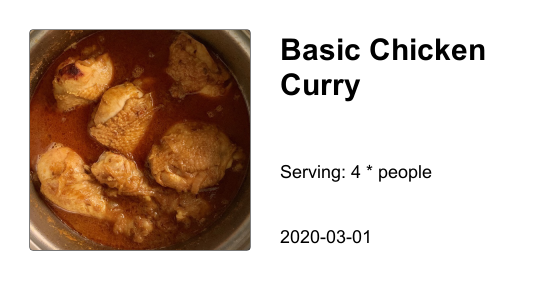
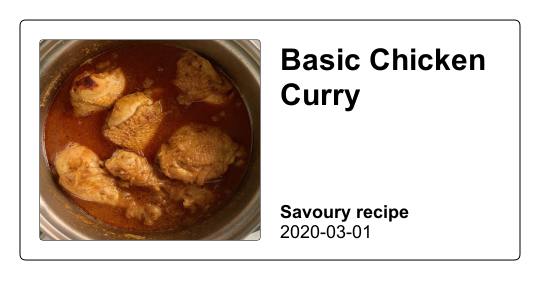
update style and preview image

Changed region(s): [[0.0296, 0.0569, 0.9778, 0.9395]]

diff --git a/pages/recipe/[slug].js b/pages/recipe/[slug].js
@@ -39,7 +39,7 @@ const RecipeContainer = styled(animated.div)`
     margin-left: 30px;
     list-style-type: decimal-leading-zero;
     max-width: 650px;
-    color: #000;
+    color: #222;
     li {
       margin-bottom: 0;
       font-size: 17px;
@@ -57,7 +57,7 @@ const RecipeContainer = styled(animated.div)`
     list-style-position: outside;
     /* margin-top: 10px;
     margin-left: 20px; */
-    color: #000;
+    color: #222;
     li {
       line-height: 20px;
       margin: 10px 0;
@@ -76,7 +76,7 @@ const RecipeContainer = styled(animated.div)`
       font-size: 18px;
       line-height: 22px;
       letter-spacing: 2px;
-      color: #000;
+      color: #222;
       margin-top: 25px;
     }
     ul,
@@ -115,7 +115,7 @@ const ImageFrame = styled.div`
   max-height: initial;
   transition: all ease-in 200ms;
   margin: 0 0 20px 0;
-  border: 1px solid #000;
+  border: 1px solid #222;
   position: relative;
   display: flex;
   border-radius: 4px;
@@ -232,7 +232,7 @@ const MetaData = styled.div`
     font-weight: bold;
     font-size: 30px;
     line-height: 36px;
-    color: #000;
+    color: #222;
     margin-bottom: 10px;
   }
 
@@ -240,7 +240,7 @@ const MetaData = styled.div`
     font-weight: normal;
     font-size: 18px;
     line-height: 22px;
-    color: #000;
+    color: #222;
     margin-bottom: 10px;
   }
 
@@ -248,14 +248,18 @@ const MetaData = styled.div`
     font-weight: normal;
     font-size: 18px;
     line-height: 22px;
-    color: #000;
+    color: #222;
     .servingSize {
       font-size: 17px;
-      width: 50px;
-      border: 1px solid #000;
-      color: #000;
+      width: 70px;
+      border: 1px solid #222;
+      border-radius: 3px;
+      color: #222;
       background: var(--bg);
       text-align: center;
+      &::-webkit-inner-spin-button {
+        opacity: 1;
+      }
     }
   }
 `;
@@ -268,7 +272,7 @@ const IngredientsBlk = styled.div`
     font-size: 18px;
     line-height: 22px;
     letter-spacing: 2px;
-    color: #000;
+    color: #222;
   }
   .ingredient__group {
     margin-top: 10px;
@@ -278,7 +282,7 @@ const IngredientsBlk = styled.div`
       font-weight: normal;
       font-size: 16px;
       line-height: 19px;
-      color: #000;
+      color: #222;
     }
   }
   ul {
@@ -318,14 +322,14 @@ const IngredientsBlk = styled.div`
             content: "";
             height: 12px;
             width: 12px;
-            border: 1.5px solid #000;
+            border: 1.5px solid #222;
             margin-right: 10px;
             box-sizing: content-box;
           }
           &::after {
             opacity: 0;
             content: "";
-            background: #000;
+            background: #222;
             height: 18px;
             width: 1px;
             transform: rotate(45deg);

diff --git a/components/header.js b/components/header.js
@@ -16,7 +16,7 @@ const Container = styled.nav`
     font-weight: normal;
     font-size: 20px;
     line-height: 24px;
-    color: #000;
+    color: #222;
   }
   .home {
     color: #595959;
@@ -34,7 +34,7 @@ const Container = styled.nav`
       margin: 4px 0;
 
       &.active {
-        color: #000;
+        color: #222;
       }
     }
   }
@@ -43,7 +43,7 @@ const Container = styled.nav`
       li {
         cursor: pointer;
         &.active {
-          color: #000;
+          color: #222;
         }
       }
     }
@@ -139,7 +139,7 @@ const BurgerMenuButton = styled.div`
   z-index: 12;
 
   .b-bun {
-    background: black;
+    background: #222;
     position: relative;
     transition: all 0.4s ease;
 
@@ -164,7 +164,7 @@ const BurgerMenuButton = styled.div`
 
   &.open {
     .b-bun--top {
-      background: black;
+      background: #222;
       top: 9px;
       transform: rotate(45deg);
     }
@@ -174,7 +174,7 @@ const BurgerMenuButton = styled.div`
     }
 
     .b-bun--bottom {
-      background: black;
+      background: #222;
       top: 5px;
       transform: rotate(-45deg);
     }

diff --git a/components/globalStyle.js b/components/globalStyle.js
@@ -73,13 +73,12 @@ export const ResetStyle = createGlobalStyle`
 
     a {
       text-decoration: none;
-      color: black;
+      color: #222;
       &:visited,
       &:active {
-        color: black;
+        color: #222;
       }
     }
-
 `;
 
 export const GlobalStyle = createGlobalStyle`
@@ -111,7 +110,7 @@ export const GlobalStyle = createGlobalStyle`
 
     body.light {
       --background: #fff;
-      --primary_text: #000;
+      --primary_text: #222;
       --secondary_text: #595959;
     }
 

diff --git a/pages/index.js b/pages/index.js
@@ -23,7 +23,7 @@ const RecipeListItem = styled.li`
   position: relative;
   transition: margin ease-in 100ms;
   flex-direction: column;
-  border: 1px solid #000000;
+  border: 1px solid #222;
   box-shadow: var(--form-shadow);
 
   .recipe__pic {
@@ -72,7 +72,7 @@ const RecipeListItem = styled.li`
       rgba(77, 77, 77, 0.567708) 56.77%,
       #646464 100%
     );
-    color: #000;
+    color: #222;
     z-index: 10;
     transition: opacity 200ms ease;
     .name {
